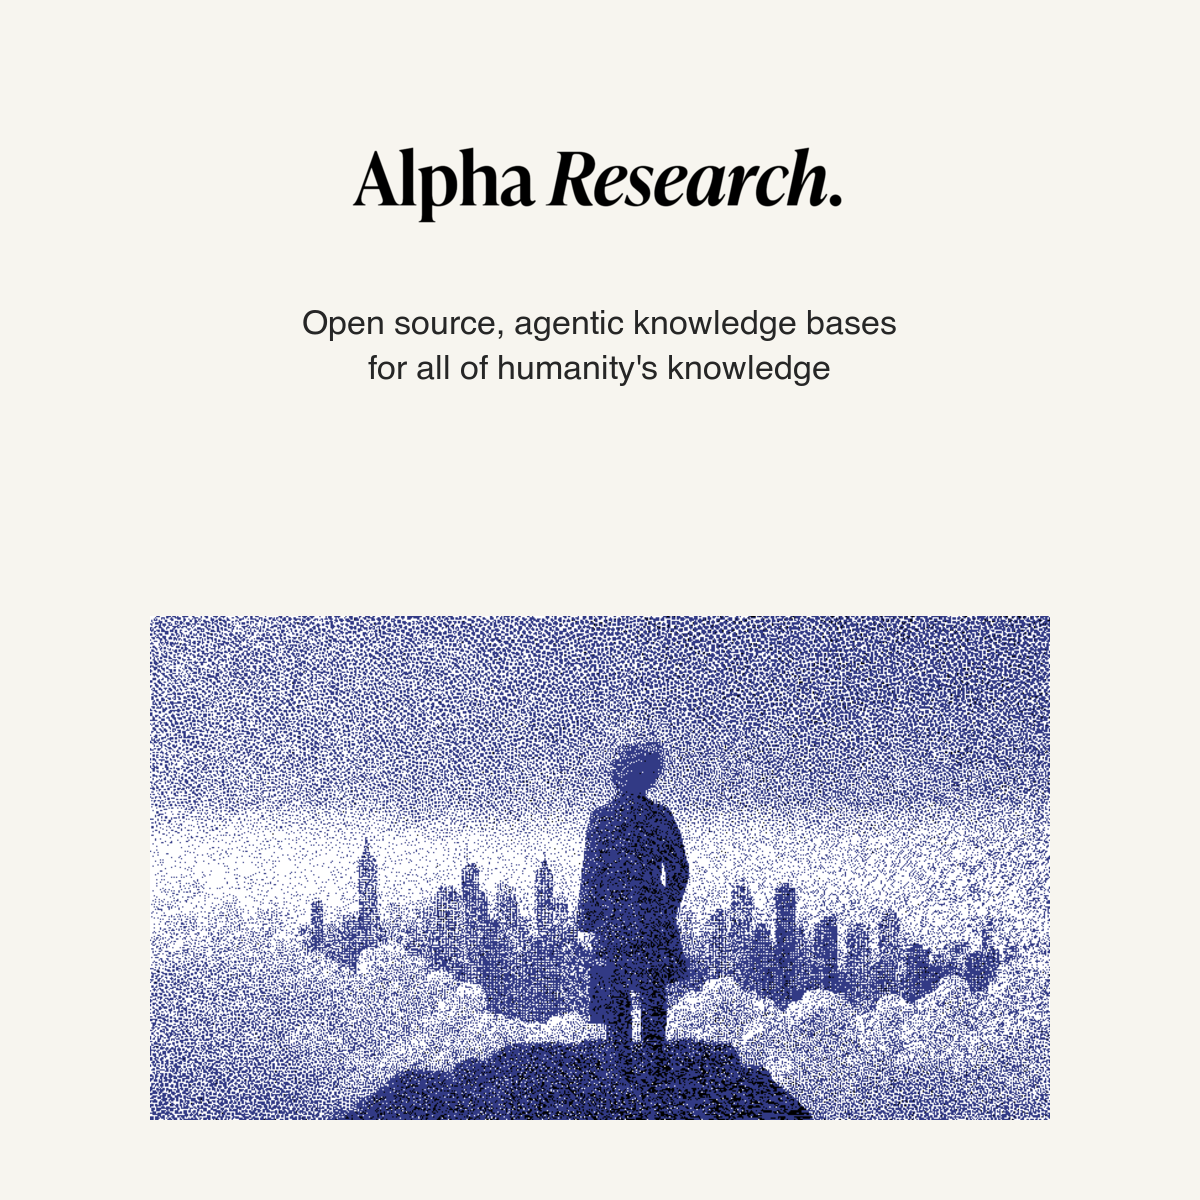
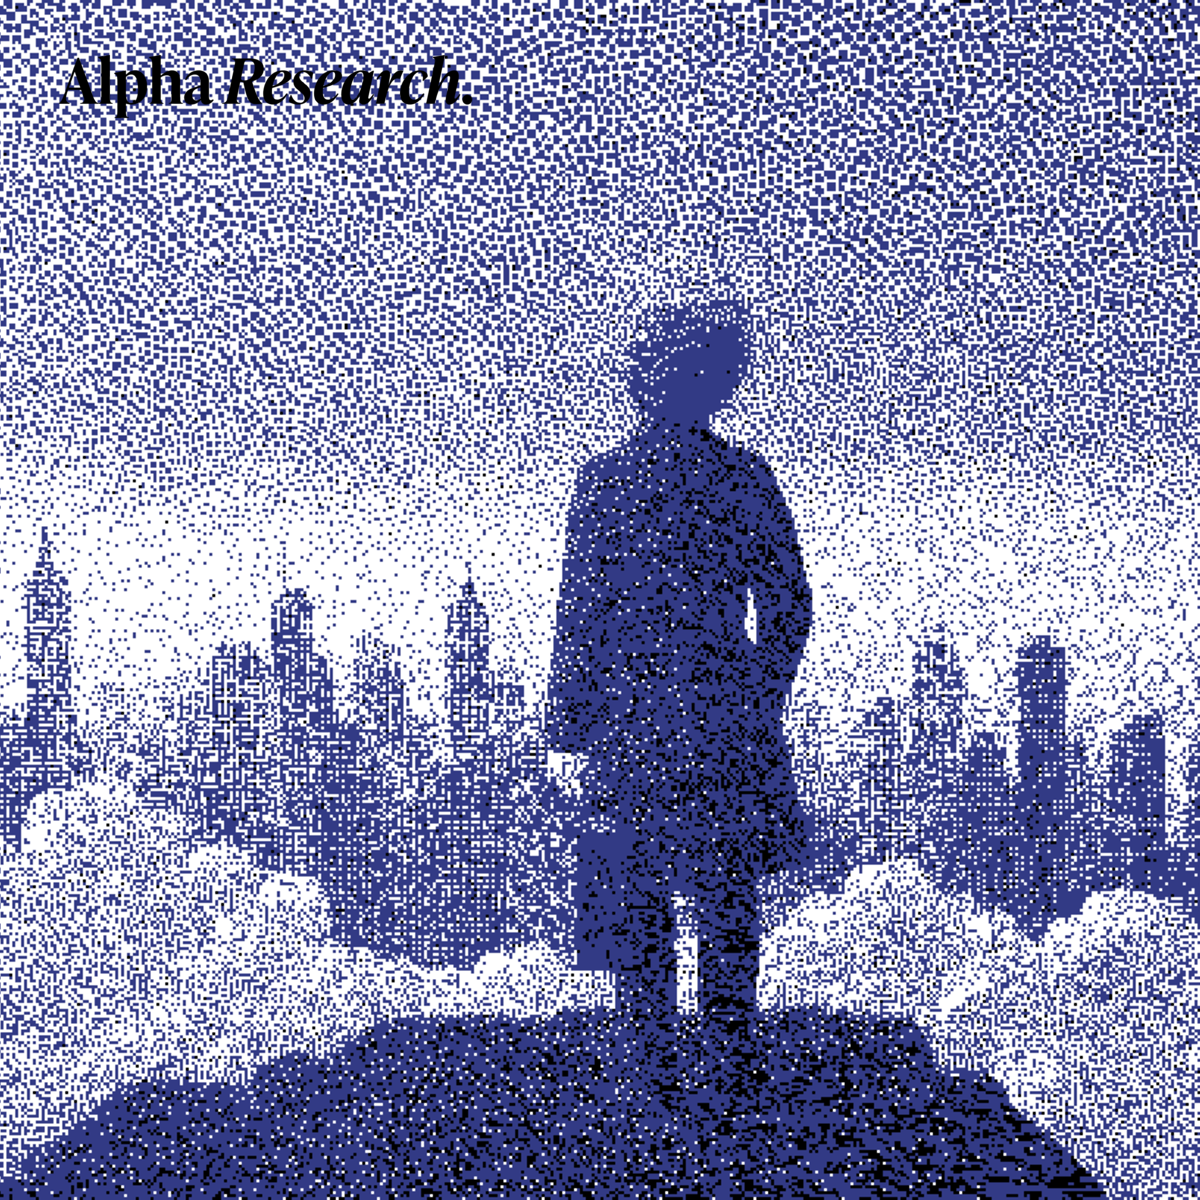
Update homepage title and OG artwork

diff --git a/index.html b/index.html
@@ -10,7 +10,7 @@
     <meta name="viewport" content="width=device-width, initial-scale=1.0" />
     <meta
       name="description"
-      content="Open source, agentic knowledge bases for all of humanity's knowledge."
+      content="Open source knowledge bases for all humanity."
     />
     <meta name="robots" content="index,follow" />
     <link rel="canonical" href="https://alpharesearch.nyc/" />
@@ -19,11 +19,11 @@
     <meta property="og:type" content="website" />
     <meta
       property="og:title"
-      content="Open source, agentic knowledge bases for all of humanity's knowledge"
+      content="Alpha Research: Open source knowledge bases for all humanity"
     />
     <meta
       property="og:description"
-      content="Open source, agentic knowledge bases for all of humanity's knowledge."
+      content="Open source knowledge bases for all humanity."
     />
     <meta property="og:url" content="https://alpharesearch.nyc/" />
     <meta property="og:image" content="https://alpharesearch.nyc/social/alpha-research-og.jpg" />
@@ -39,15 +39,15 @@
     <meta name="twitter:card" content="summary_large_image" />
     <meta
       name="twitter:title"
-      content="Open source, agentic knowledge bases for all of humanity's knowledge"
+      content="Alpha Research: Open source knowledge bases for all humanity"
     />
     <meta
       name="twitter:description"
-      content="Open source, agentic knowledge bases for all of humanity's knowledge."
+      content="Open source knowledge bases for all humanity."
     />
     <meta name="twitter:image" content="https://alpharesearch.nyc/social/alpha-research-og.jpg" />
     <meta name="twitter:image:alt" content="Alpha Research social preview image" />
-    <title>Open source, agentic knowledge bases for all of humanity's knowledge</title>
+    <title>Alpha Research: Open source knowledge bases for all humanity</title>
     <script type="application/ld+json">
       {
         "@context": "https://schema.org",
@@ -56,7 +56,7 @@
         "url": "https://alpharesearch.nyc/",
         "logo": "https://alpharesearch.nyc/alpha-research-wordmark.png",
         "image": "https://alpharesearch.nyc/social/alpha-research-og.jpg",
-        "description": "Open source, agentic knowledge bases for all of humanity's knowledge.",
+        "description": "Open source knowledge bases for all humanity.",
         "sameAs": ["https://alpha-book.org/"]
       }
     </script>
@@ -66,7 +66,7 @@
         "@type": "WebSite",
         "name": "Alpha Research",
         "url": "https://alpharesearch.nyc/",
-        "description": "Open source, agentic knowledge bases for all of humanity's knowledge."
+        "description": "Open source knowledge bases for all humanity."
       }
     </script>
   </head>
